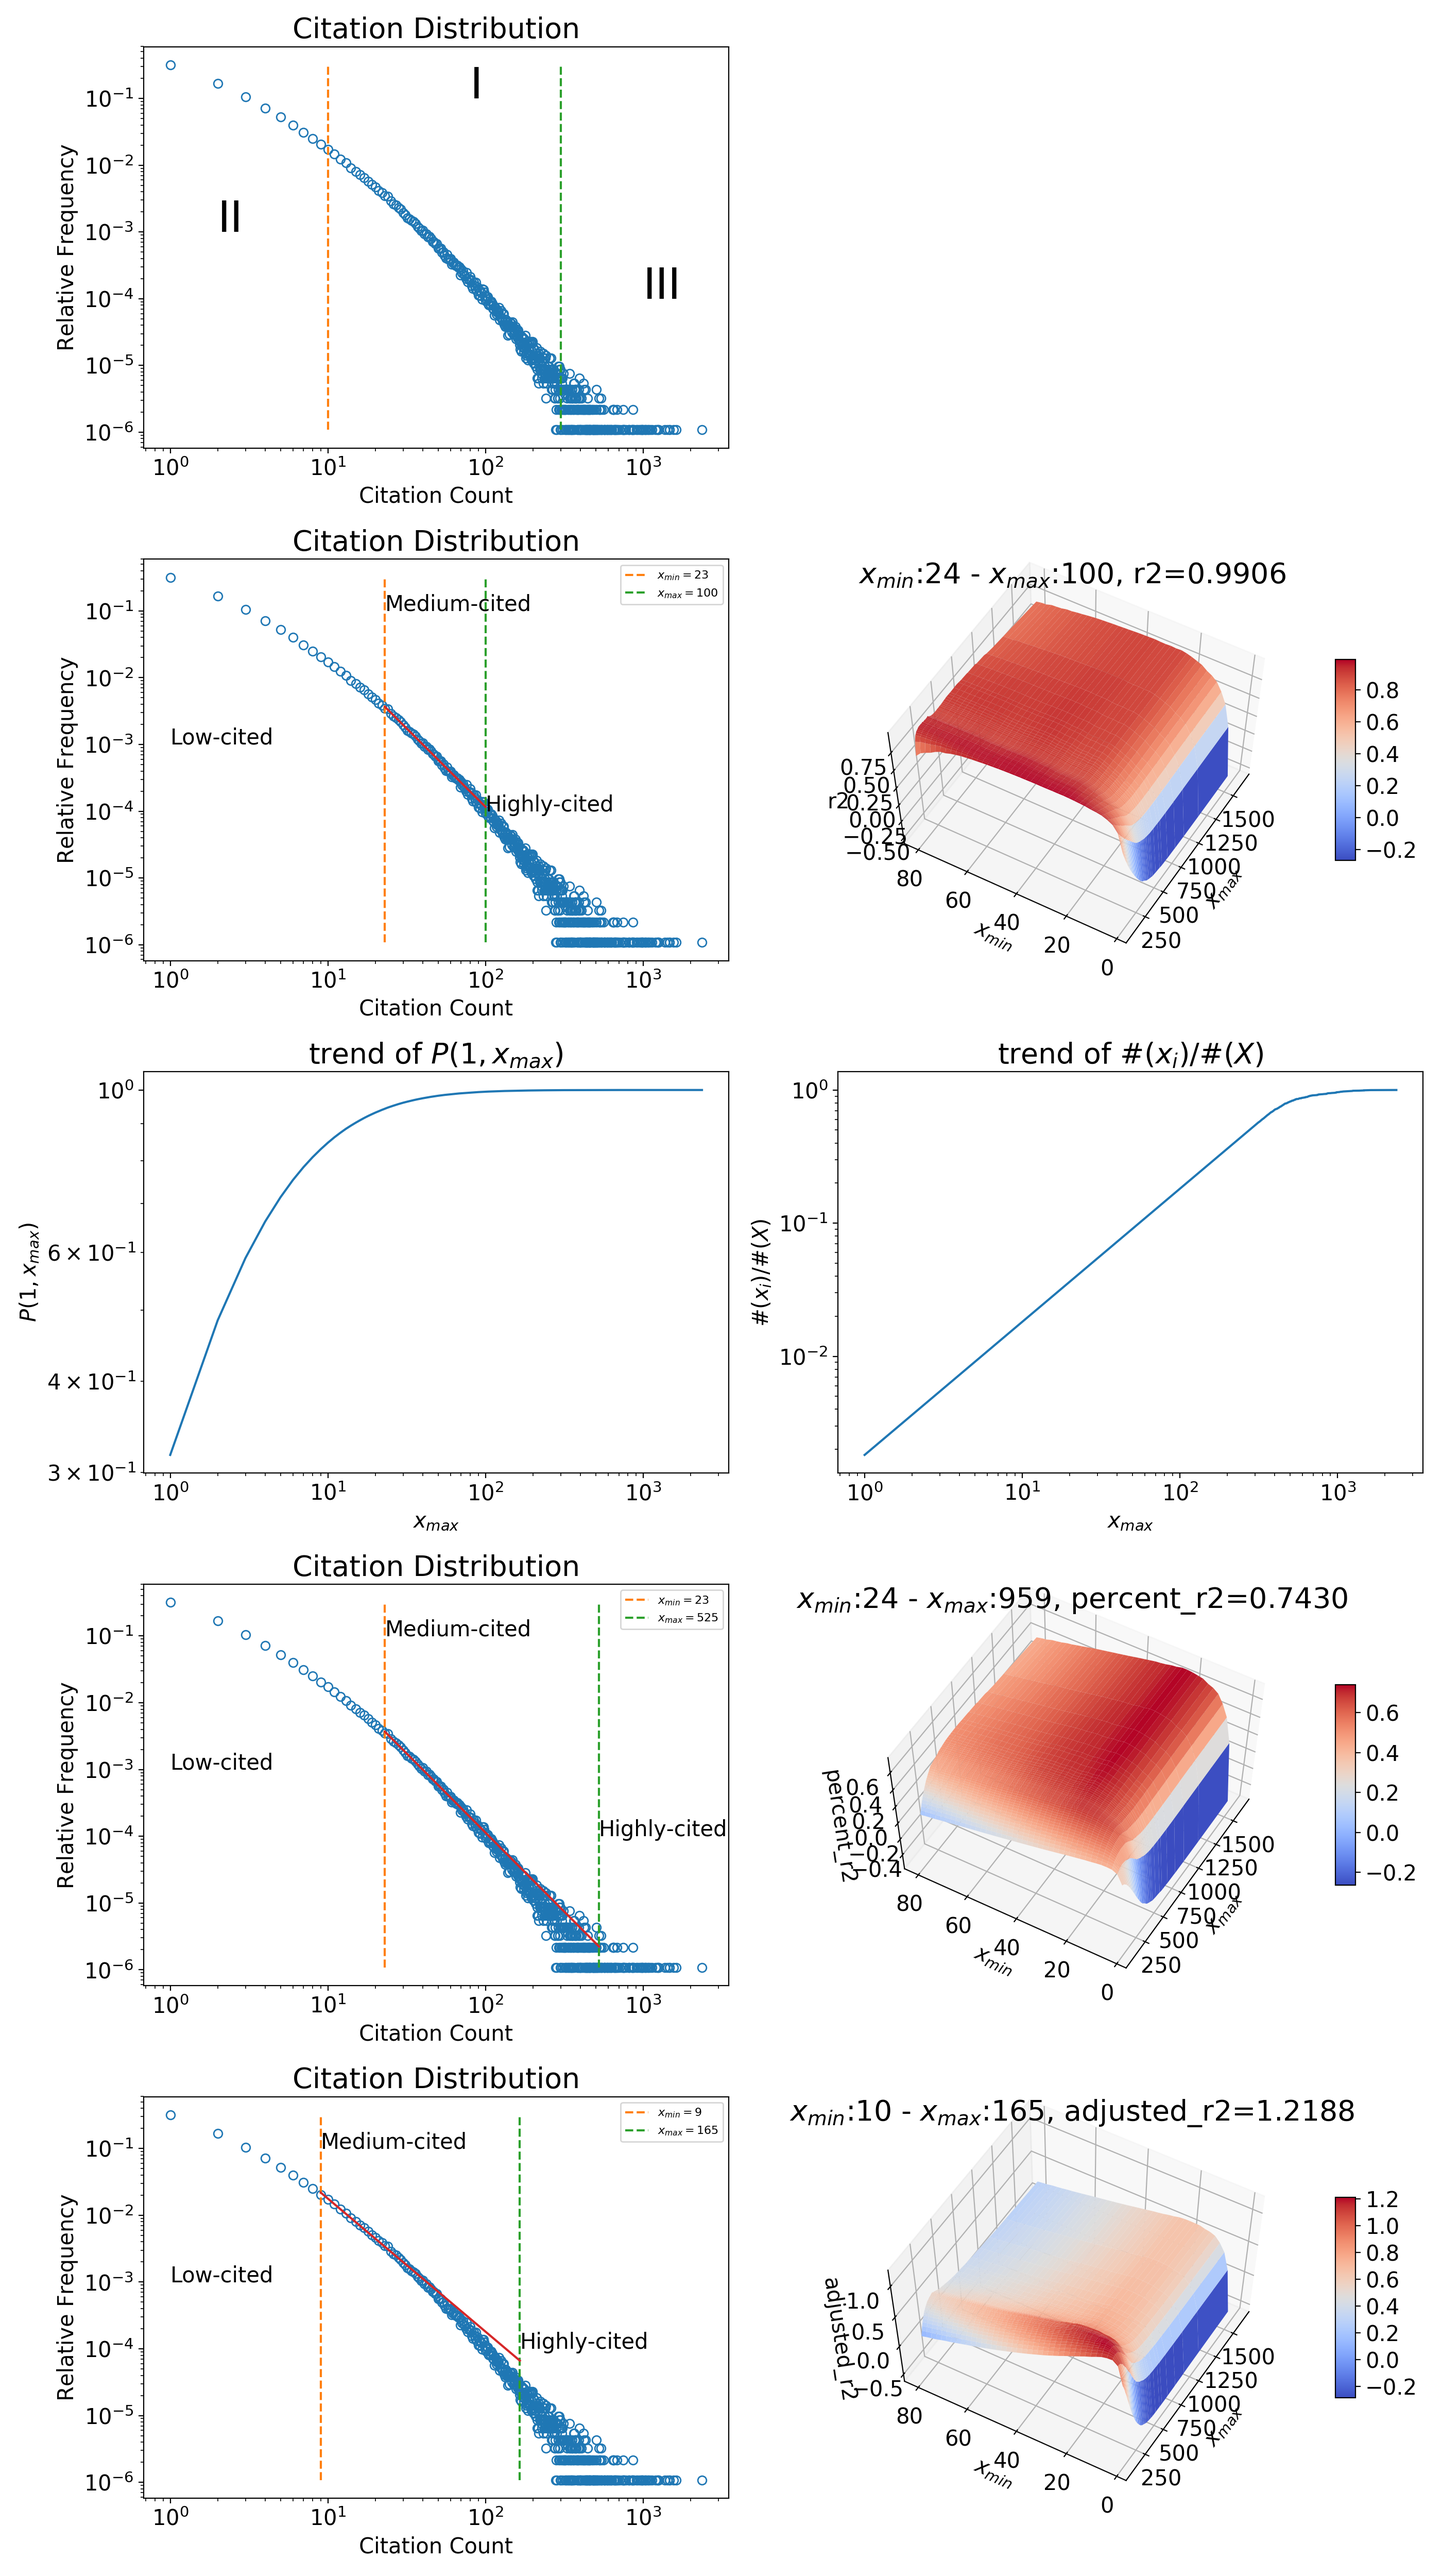
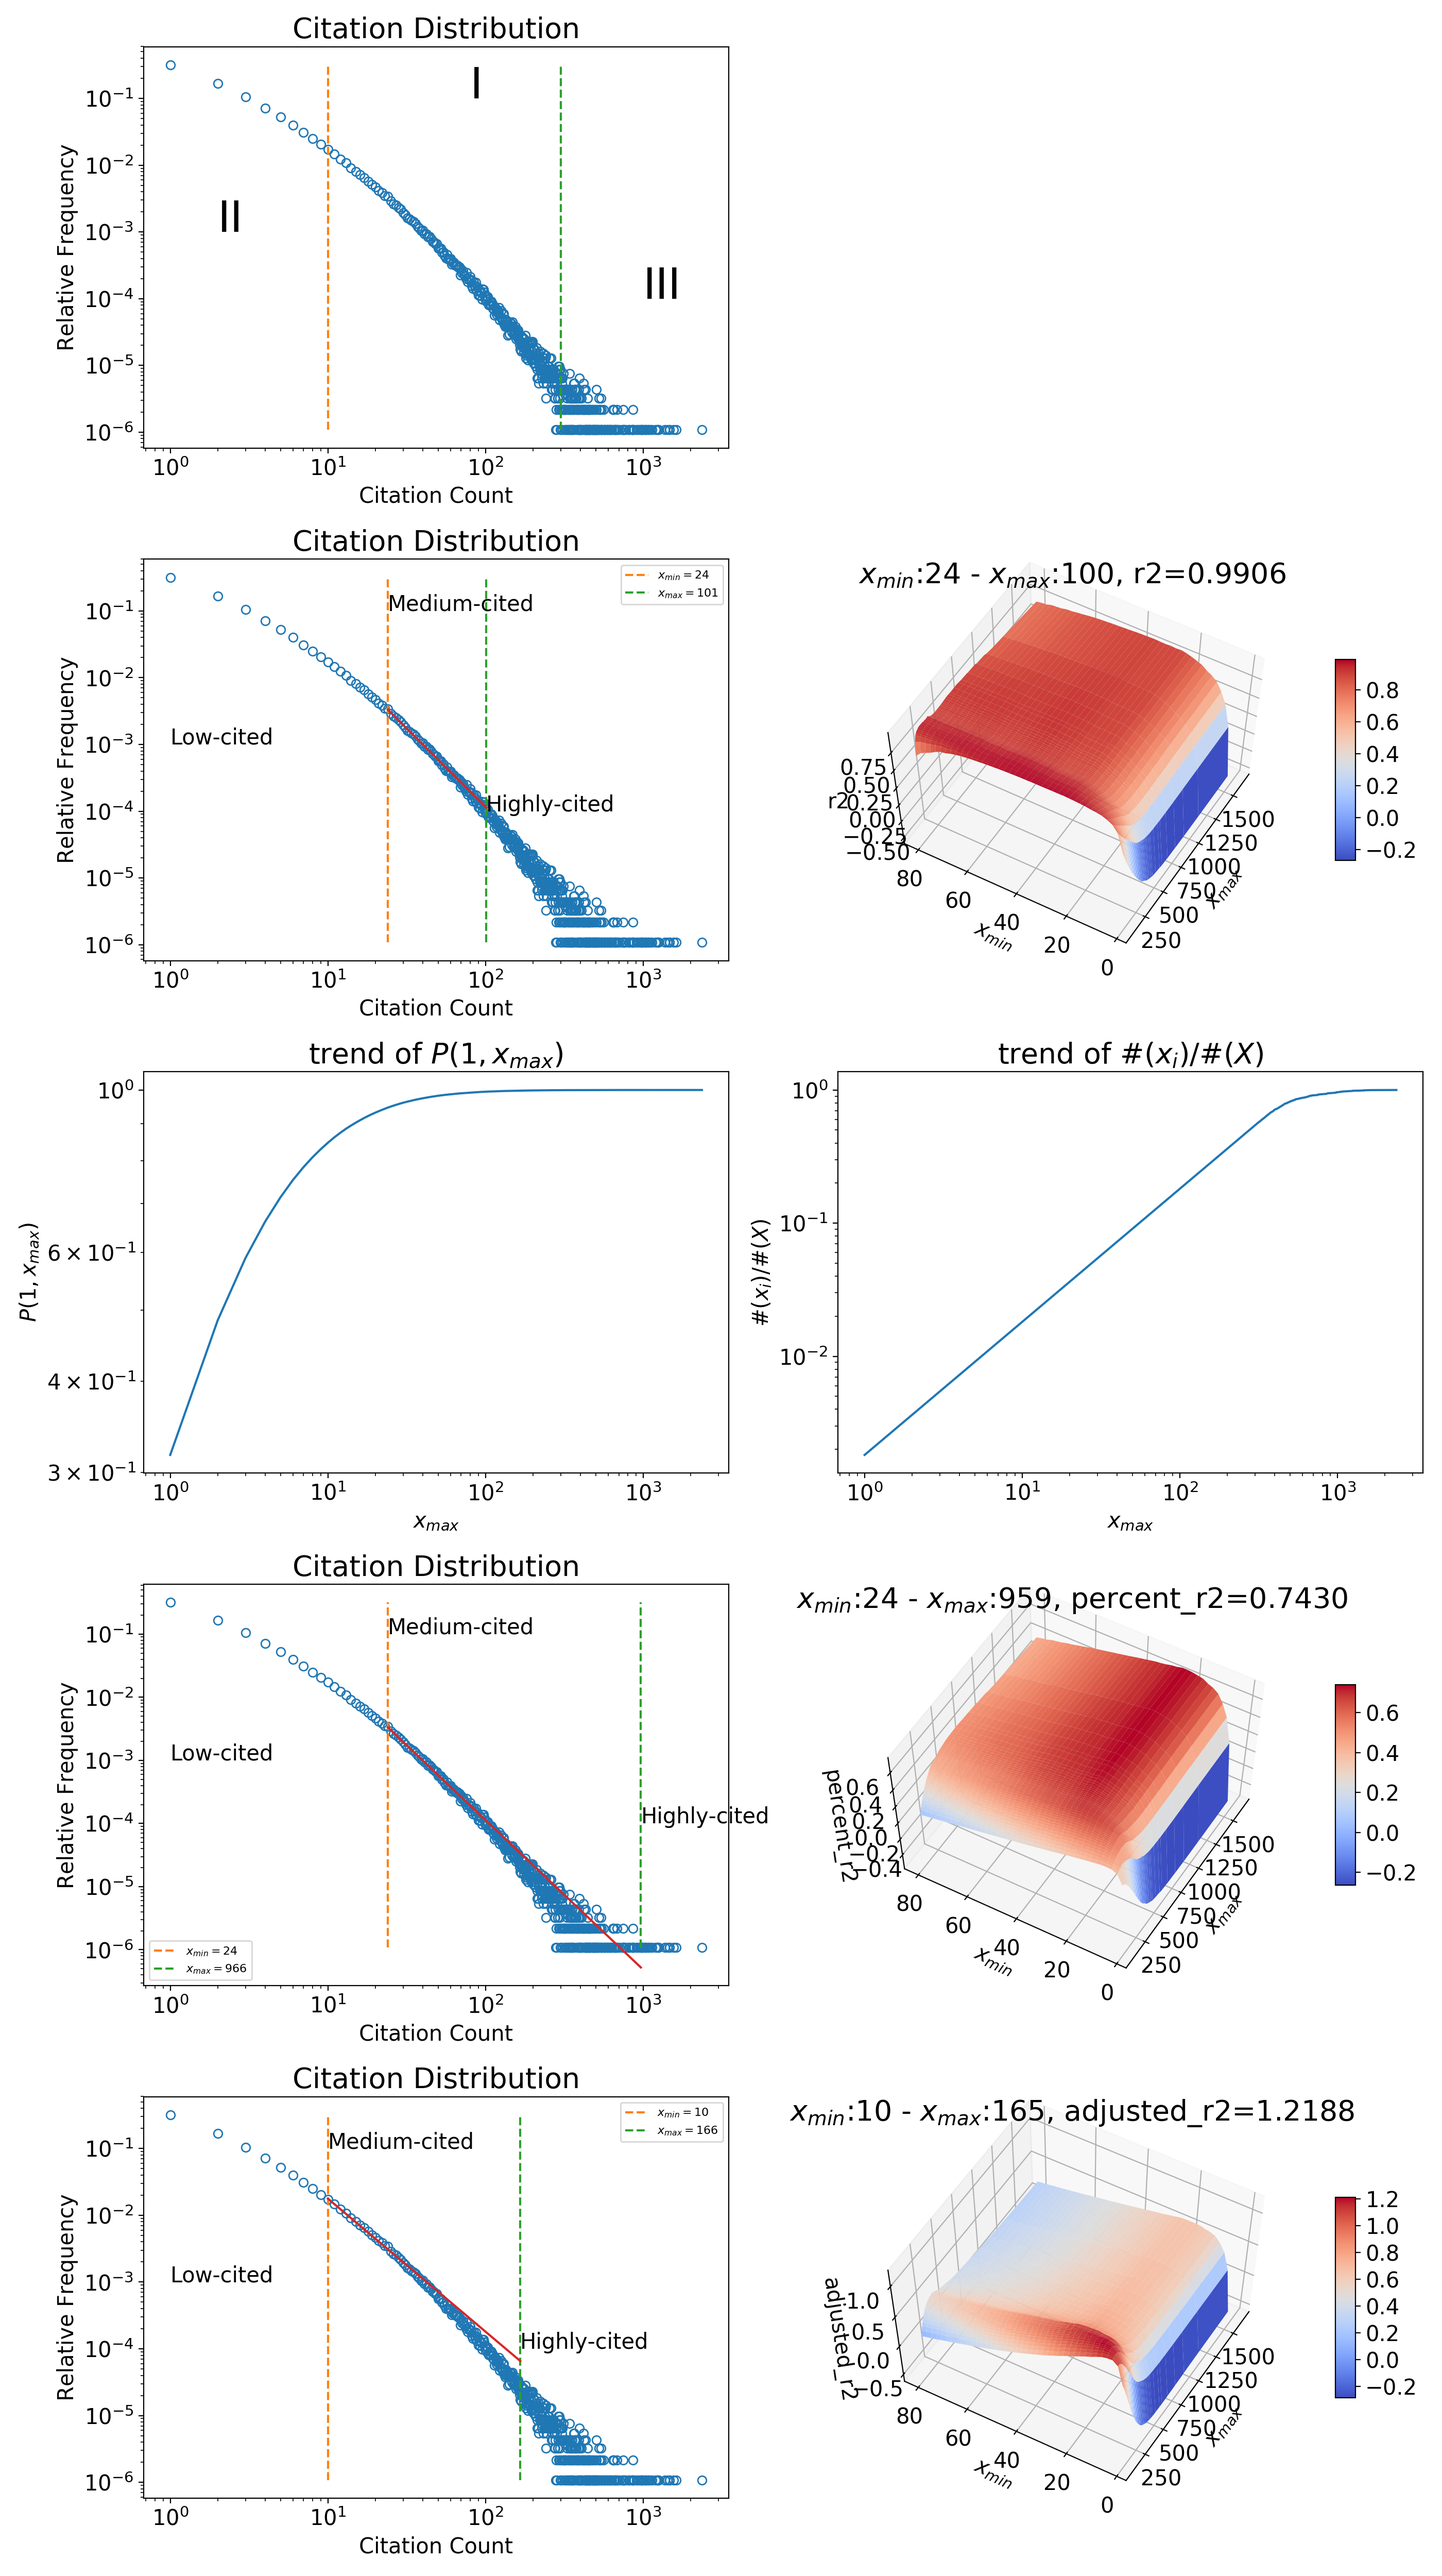
modify errors

diff --git a/main.py b/main.py
@@ -124,14 +124,17 @@ def plot_fitting_and_distribution(fig,ax1,ax2,xs,ys,evaluator_name,_min_y,_max_y
     start,end = fit_xmin_xmax(xs,ys,fig,ax2,evaluator_name,x_min_max,x_max_min)
     logging.info('Search result: X_min =  {:},  X_max = {:} ...'.format(start,end))
     popt,pcov = curve_fit(power_low_func,xs[start:end],ys[start:end])
-    plot_citation_distribution(ax1,xs,ys,start,end,_min_y,_max_y,True)
-    ax1.plot(np.linspace(start, end, 10), power_low_func(np.linspace(start, end, 10), *popt),label='$\\alpha={:.2f}$'.format(popt[0]))
+    xmin = xs[start]
+    xmax = xs[end]
+    plot_citation_distribution(ax1,xs,ys,xmin,xmax,_min_y,_max_y,True)
+    ax1.plot(np.linspace(xmin, xmax, 10), power_low_func(np.linspace(xmin, xmax, 10), *popt),label='$\\alpha={:.2f}$'.format(popt[0]))
     # ax1.plot([start]*10, np.linspace(_min_y, _max_y, 10),'--',label='$x_{min}$'+'$={:}$'.format(start))
     # ax1.plot([end]*10, np.linspace(_min_y, _max_y, 10),'--',label='$x_{max}$'+'$={:}$'.format(end))
 
 def plot_citation_distribution(ax,xs,ys,xmin,xmax,_min_y,_max_y,isFinal=False):
     ax.plot(xs,ys,'o',fillstyle='none')
-
+    # xmin = xs[start]
+    # xmax = xs[end]
     # ax.plot([xmin]*10, np.linspace(_min_y, _max_y, 10),'--')
     # ax.plot([xmax]*10, np.linspace(_min_y, _max_y, 10),'--')
 
